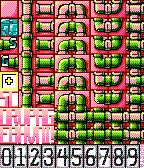
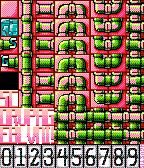
Stateplay

Changed region(s): [[0.0, 0.4167, 0.1389, 0.5357], [0.1389, 0.744, 0.1944, 0.8631], [0.9722, 0.9821, 1.0, 1.0]]

diff --git a/src/button_click.c b/src/button_click.c
@@ -12,6 +12,8 @@
 #define ENGINE_PLAYER_STARTY 12
 #define ENGINE_PLAYER_STARTDX 0
 #define ENGINE_PLAYER_STARTDY 1
+#define ENGINE_FONT_HEIGHT 18
+#define ENGINE_FONT_SPACING 2
 
 #define GColorBlackARGB8 ((uint8_t)0b11000000)
 
@@ -41,7 +43,7 @@ static int px;
 static int py;
 static int pdx;
 static int pdy;
-static int state=1;
+static int state=2;
 int level=0;
 
 // Current processing Coordinate
@@ -72,6 +74,39 @@ static int redirect_tile[84] = { 0,
 															 8, 16, 24                            // Wall Tile, Start Tile and End Tile
 															 };
 
+// Font character redirection
+static int font_characters[26]={
+		50,78,74,0,56,0,77,0,80,0,
+		0,57,79,58,48,76,81,75,40,0,
+	  49,82,0,0,0,0
+};
+
+// Per character font widths A-J K-T U-Z 
+static int font_width[26]={
+		9,9,9,9,9,9,9,9,4,9,
+		9,9,15,9,9,9,5,9,9,9,
+	  9,9,9,9,9,9
+};
+
+//---------------------------------------------------------------------------------//
+// writestring
+//---------------------------------------------------------------------------------//
+// Proportional Width Text Writer
+//---------------------------------------------------------------------------------//
+
+void writestring(GContext* ctx,char *str,int sx,int sy)
+{	
+		int len=strlen(str);
+		int xk=sx;
+		for(int i=0;i<len;i++){
+				int chr=str[i]-65;
+				if(font_characters[chr]!=0){
+						graphics_draw_bitmap_in_rect(ctx, t_image[font_characters[chr]], GRect(xk,sy, font_width[chr], ENGINE_FONT_HEIGHT));						
+				}
+				xk+=font_width[chr]+ENGINE_FONT_SPACING;	
+		}
+}
+
 // Garbage collected sprite creation (reference counter only)
 static GBitmap* makeSprite(const GBitmap * base_bitmap, GRect sub_rect)
 {
@@ -79,6 +114,12 @@ static GBitmap* makeSprite(const GBitmap * base_bitmap, GRect sub_rect)
 //	APP_LOG(APP_LOG_LEVEL_DEBUG, "Loop index now %d", bitmapcnt);
 	return gbitmap_create_as_sub_bitmap(base_bitmap,sub_rect);
 }
+
+//---------------------------------------------------------------------------------//
+// comparescore
+//---------------------------------------------------------------------------------//
+// Returns true if current score is higher than high score
+//---------------------------------------------------------------------------------//
 
 static int comparescore()
 {
@@ -97,86 +138,92 @@ static int comparescore()
 //---------------------------------------------------------------------------------//
 
 void timer_callback(void *data) {
-		// Update Timer	
-		ClockCounter++;
-		if(((ClockCounter%ClockSpeed)==0)&&StartTimer>0) StartTimer--;	
-	
-		// Simple float code
-		unsigned char ctile=tilemap[(cpy*ENGINE_TILEMAPWIDTH)+cpx];
-	
-		// Tile delta
-		int cpxd=0;
-		int cpyd=0;
-		unsigned char ntile=0;
-	
-		// This complicated tangle of if-statements handles the pipe updating operations.
-		// One statement for each end tile (if it it not an and tile then advance tile)
-		// A is Below, B is Left, C is Right, and D is Above
-		if(ctile==4||ctile==20||ctile==28||ctile==68||ctile==76){					//----===## A ##===----
-				cpyd=1;
-				ntile=tilemap[((cpy+cpyd)*ENGINE_TILEMAPWIDTH)+(cpx+cpxd)];
-				if(ntile==1||ntile==33||ntile==41||ntile==65||ntile==73){     // Normal tile - do nothing - let engine continue filling pipes
-				}else if(ntile==49){ 		                                      // Tile that needs to flip direction
-						ntile=65;
-				}else{
-					// Game over!
-					APP_LOG(APP_LOG_LEVEL_DEBUG, "GAME OVER A %d",ntile);
+		if(state==1){
+			// Main Game State
+				// Update Timer	
+				ClockCounter++;
+				if(((ClockCounter%ClockSpeed)==0)&&StartTimer>0) StartTimer--;	
+
+				// Simple float code
+				unsigned char ctile=tilemap[(cpy*ENGINE_TILEMAPWIDTH)+cpx];
+
+				// Tile delta
+				int cpxd=0;
+				int cpyd=0;
+				unsigned char ntile=0;
+
+				if(StartTimer==0){
+						// This complicated tangle of if-statements handles the pipe updating operations.
+						// One statement for each end tile (if it it not an and tile then advance tile)
+						// A is Below, B is Left, C is Right, and D is Above
+						if(ctile==4||ctile==20||ctile==28||ctile==68||ctile==76){					//----===## A ##===----
+								cpyd=1;
+								ntile=tilemap[((cpy+cpyd)*ENGINE_TILEMAPWIDTH)+(cpx+cpxd)];
+								if(ntile==1||ntile==33||ntile==41||ntile==65||ntile==73){     // Normal tile - do nothing - let engine continue filling pipes
+								}else if(ntile==49){ 		                                      // Tile that needs to flip direction
+										ntile=65;
+								}else{
+									// Game over!
+									// APP_LOG(APP_LOG_LEVEL_DEBUG, "GAME OVER A %d",ntile);
+								}
+								tilemap[((cpy+cpyd)*ENGINE_TILEMAPWIDTH)+(cpx+cpxd)]=ntile;
+						}else if(ctile==16||ctile==32||ctile==44||ctile==56||ctile==64){	//----===## B ##===----
+								cpxd=-1;
+								ntile=tilemap[((cpy+cpyd)*ENGINE_TILEMAPWIDTH)+(cpx+cpxd)];
+								if(ntile==13||ntile==17||ntile==37||ntile==53||ntile==61){    // Normal tile - do nothing - let engine continue filling pipes
+								}else if(ntile==9||ntile==33||ntile==49){                     // Tile that needs to flip direction
+										ntile+=4;
+								}else if(ntile==68||ntile==72){                               // Vertical part 
+										ntile=61;
+								}else{
+									// Game over!
+									// APP_LOG(APP_LOG_LEVEL_DEBUG, "GAME OVER B %d",ntile);
+								}
+								tilemap[((cpy+cpyd)*ENGINE_TILEMAPWIDTH)+(cpx+cpxd)]=ntile;
+						}else if(ctile==12||ctile==24||ctile==36||ctile==52||ctile==60){	//----===## C ##===----
+								cpxd=1;
+								ntile=tilemap[((cpy+cpyd)*ENGINE_TILEMAPWIDTH)+(cpx+cpxd)];
+								if(ntile==9||ntile==21||ntile==33||ntile==49||ntile==57||ntile==25||ntile==49){  // Normal tile - do nothing - let engine continue filling pipes
+								}else if(ntile==41){ 		                // Tile that needs to flip direction
+										ntile=45;
+								}else if(ntile==68||ntile==72){          										// Horizontal part has been filled
+										ntile=57;
+								}else{
+									// Game over!
+									// APP_LOG(APP_LOG_LEVEL_DEBUG, "GAME OVER C %d",ntile);
+								}
+								tilemap[((cpy+cpyd)*ENGINE_TILEMAPWIDTH)+(cpx+cpxd)]=ntile;
+						}else if(ctile==8||ctile==40||ctile==48||ctile==72||ctile==80){		//----===## D ##===----
+								cpyd=-1;
+								ntile=tilemap[((cpy+cpyd)*ENGINE_TILEMAPWIDTH)+(cpx+cpxd)];
+								if(ntile==5||ntile==37||ntile==45||ntile==69||ntile==77){    // Normal tile - do nothing - let engine continue filling pipes
+								}else if(ntile==1||ntile==17||ntile==25){ 		               // Tile that needs to flip direction
+										ntile+=4;
+								}else if(ntile==49){ 		                 										// Tile that needs to flip direction
+										ntile=69;
+								}else if(ntile==52||ntile==56){          										// Horizontal part has been filled
+										ntile=77;
+								}else{
+									// Game over!
+									// APP_LOG(APP_LOG_LEVEL_DEBUG, "GAME OVER D %d",ntile);
+								}
+								tilemap[((cpy+cpyd)*ENGINE_TILEMAPWIDTH)+(cpx+cpxd)]=ntile;
+						}else{
+								ctile ++;			
+						}
+
+						tilemap[(cpy*ENGINE_TILEMAPWIDTH)+cpx]=ctile;
+
+						// if we changed the tile
+						if(ntile>0){
+								cpx+=cpxd;
+								cpy+=cpyd;
+						}
 				}
-				tilemap[((cpy+cpyd)*ENGINE_TILEMAPWIDTH)+(cpx+cpxd)]=ntile;
-		}else if(ctile==16||ctile==32||ctile==44||ctile==56||ctile==64){	//----===## B ##===----
-				cpxd=-1;
-				ntile=tilemap[((cpy+cpyd)*ENGINE_TILEMAPWIDTH)+(cpx+cpxd)];
-				if(ntile==13||ntile==17||ntile==37||ntile==53||ntile==61){    // Normal tile - do nothing - let engine continue filling pipes
-				}else if(ntile==9||ntile==33||ntile==49){                     // Tile that needs to flip direction
-						ntile+=4;
-				}else if(ntile==68||ntile==72){                               // Vertical part 
-						ntile=61;
-				}else{
-					// Game over!
-					APP_LOG(APP_LOG_LEVEL_DEBUG, "GAME OVER B %d",ntile);
-				}
-				tilemap[((cpy+cpyd)*ENGINE_TILEMAPWIDTH)+(cpx+cpxd)]=ntile;
-		}else if(ctile==12||ctile==24||ctile==36||ctile==52||ctile==60){	//----===## C ##===----
-				cpxd=1;
-				ntile=tilemap[((cpy+cpyd)*ENGINE_TILEMAPWIDTH)+(cpx+cpxd)];
-				if(ntile==9||ntile==21||ntile==33||ntile==49||ntile==57||ntile==25||ntile==49){  // Normal tile - do nothing - let engine continue filling pipes
-				}else if(ntile==41){ 		                // Tile that needs to flip direction
-						ntile=45;
-				}else if(ntile==68||ntile==72){          										// Horizontal part has been filled
-						ntile=57;
-				}else{
-					// Game over!
-					APP_LOG(APP_LOG_LEVEL_DEBUG, "GAME OVER C %d",ntile);
-				}
-				tilemap[((cpy+cpyd)*ENGINE_TILEMAPWIDTH)+(cpx+cpxd)]=ntile;
-		}else if(ctile==8||ctile==40||ctile==48||ctile==72||ctile==80){		//----===## D ##===----
-				cpyd=-1;
-				ntile=tilemap[((cpy+cpyd)*ENGINE_TILEMAPWIDTH)+(cpx+cpxd)];
-				if(ntile==5||ntile==37||ntile==45||ntile==69||ntile==77){    // Normal tile - do nothing - let engine continue filling pipes
-				}else if(ntile==1||ntile==17||ntile==25){ 		               // Tile that needs to flip direction
-						ntile+=4;
-				}else if(ntile==49){ 		                 										// Tile that needs to flip direction
-						ntile=69;
-				}else if(ntile==52||ntile==56){          										// Horizontal part has been filled
-						ntile=77;
-				}else{
-					// Game over!
-					APP_LOG(APP_LOG_LEVEL_DEBUG, "GAME OVER D %d",ntile);
-				}
-				tilemap[((cpy+cpyd)*ENGINE_TILEMAPWIDTH)+(cpx+cpxd)]=ntile;
-		}else{
-				ctile ++;			
+
+				// Update Graphics
+				layer_mark_dirty(s_image_layer);
 		}
-	
-		tilemap[(cpy*ENGINE_TILEMAPWIDTH)+cpx]=ctile;
-		
-		// if we changed the tile
-		if(ntile>0){
-				cpx+=cpxd;
-				cpy+=cpyd;
-		}
-	
-	  layer_mark_dirty(s_image_layer);
 
     //Register next execution
     timer = app_timer_register(delta, (AppTimerCallback) timer_callback, NULL);
@@ -397,13 +444,6 @@ static void up_click_handler(ClickRecognizerRef recognizer, void *context) {
 // Called when the graphics need to be updated
 //---------------------------------------------------------------------------------//
 
-//  graphics_context_set_compositing_mode(ctx, GCompOpSet);
-//  graphics_context_set_compositing_mode(ctx, GCompOpAssign);
-//  graphics_draw_bitmap_in_rect(ctx, s_bitmap, gbitmap_get_bounds(s_bitmap));
-// ENGINE_TILE_SIZE 18
-// ENGINE_TILE_NOX 8
-//  ENGINE_TILE_NOXH 4
-
 static void layer_update_callback(Layer *layer, GContext* ctx) {
 	
 	if(state==0){
@@ -426,7 +466,7 @@ static void layer_update_callback(Layer *layer, GContext* ctx) {
 					graphics_draw_bitmap_in_rect(ctx, t_image[i+25], GRect(48,42+(i*24), 14, 24));
 			}
 			graphics_draw_bitmap_in_rect(ctx, t_image[38], GRect(0,42+(level*24), 34, 24));		
-	}else if(state>0){
+	}else if(state==1){
 			// Update Tilemap
 			int cx;
 			int cy;
@@ -471,14 +511,22 @@ static void layer_update_callback(Layer *layer, GContext* ctx) {
 			graphics_draw_bitmap_in_rect(ctx, t_image[64+(StartTimer/10)], GRect(16,144, 14, 24));
 			graphics_draw_bitmap_in_rect(ctx, t_image[64+(StartTimer%10)], GRect(30,144, 14, 24));
 
-			graphics_draw_bitmap_in_rect(ctx, t_image[57], GRect(100,100, 18, 18));
-			graphics_draw_bitmap_in_rect(ctx, t_image[58], GRect(100,120, 18, 18));
+//			graphics_draw_bitmap_in_rect(ctx, t_image[50], GRect(100,100, 18, 18));
+//			graphics_draw_bitmap_in_rect(ctx, t_image[78], GRect(100,120, 18, 18));
+//			graphics_draw_bitmap_in_rect(ctx, t_image[79], GRect(100,130, 18, 18));
 		
 			// Draw current position
 			graphics_context_set_compositing_mode(ctx, GCompOpSet);
 			graphics_draw_bitmap_in_rect(ctx,p_walk, GRect((tx+pdx)*ENGINE_TILE_SIZE,(ty+pdy)*ENGINE_TILE_SIZE,18,18));
 			graphics_draw_bitmap_in_rect(ctx,p_sel, GRect(tx*ENGINE_TILE_SIZE,ty*ENGINE_TILE_SIZE,18,18));
 			graphics_context_set_compositing_mode(ctx, GCompOpAssign);
+	}else if(state==2){
+			// Clear Screen to Black Tile
+			graphics_draw_bitmap_in_rect(ctx, t_image[32], GRect(0,0,144,168));
+
+			// Bonus Counter
+			writestring(ctx,"SCOREQ",40,100);
+
 	}
 }
 
@@ -541,17 +589,21 @@ static void main_window_load(Window *window) {
 	t_image[73]=makeSprite(s_image, GRect(9*14, 144, 14, 24));				
 	
 	// Letters that have not previously been defined
-	t_image[74]=makeSprite(s_image, GRect(9,90,9,18));					
-	t_image[75]=makeSprite(s_image, GRect(18,90,9,18));					
-	t_image[76]=makeSprite(s_image, GRect(9,108,9,18));					
-	t_image[77]=makeSprite(s_image, GRect(36,108,9,18));					
+	t_image[74]=makeSprite(s_image, GRect(9,90,9,18));					// C					
+	t_image[75]=makeSprite(s_image, GRect(9,108,9,18));					// R
+	t_image[76]=makeSprite(s_image, GRect(27,108,9,18));        // P					
+	t_image[77]=makeSprite(s_image, GRect(45,108,9,18));				// G	
+	t_image[78]=makeSprite(s_image, GRect(9,126,9,18));					// B
+	t_image[79]=makeSprite(s_image, GRect(24,126,15,18));       // M					
+	t_image[80]=makeSprite(s_image, GRect(45,126,5,18));				// I	
+	t_image[81]=makeSprite(s_image, GRect(50,126,4,18));				// !	
+	t_image[82]=makeSprite(s_image, GRect(27,126,9,18));        // V					
 	
 	// Define transparent images as p_sel and p_walk
 	p_sel=gbitmap_create_with_resource(RESOURCE_ID_PNG_TRANSP);
 	p_walk=gbitmap_create_as_sub_bitmap(p_sel,GRect(0,18,18,18));
 	
 	// Prepare for new game
-	state=1;
 	initGameBoard();
 	
 	// Prepare Timer
